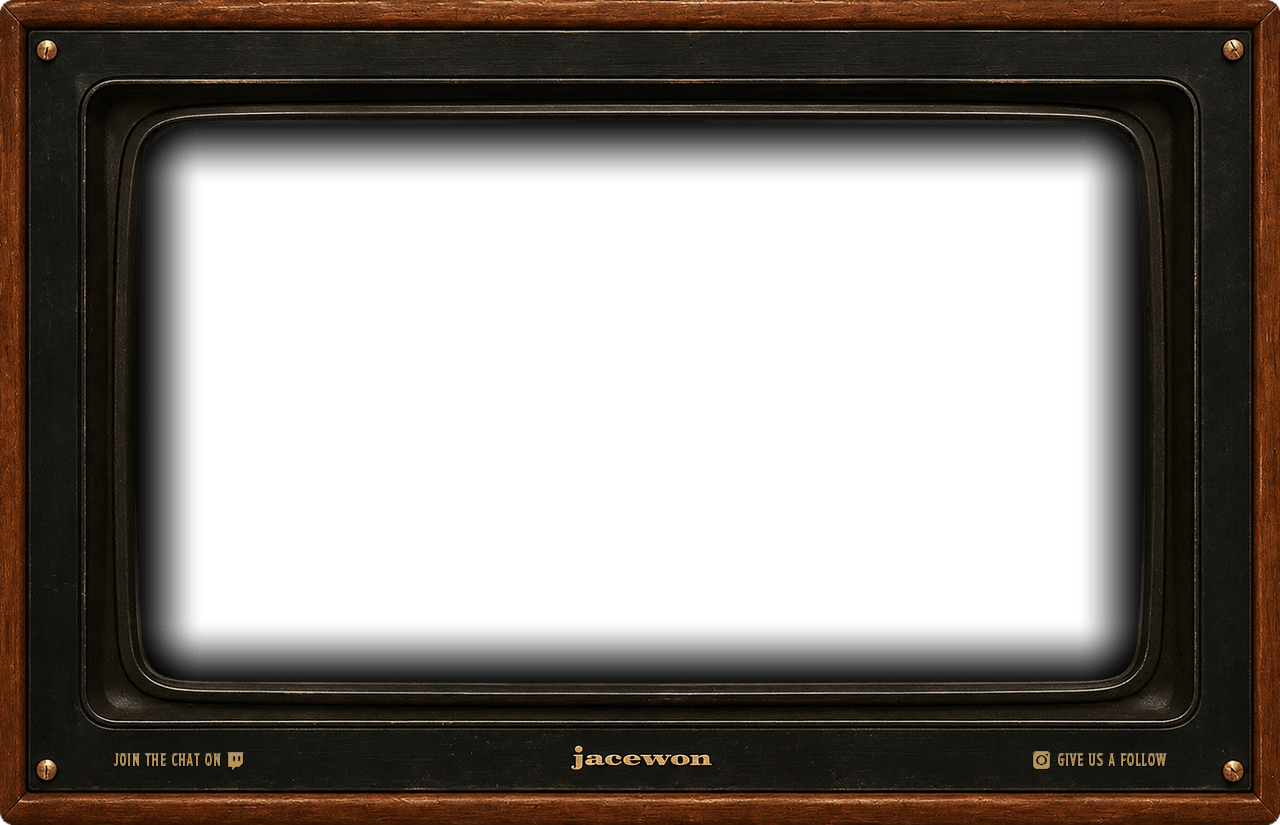
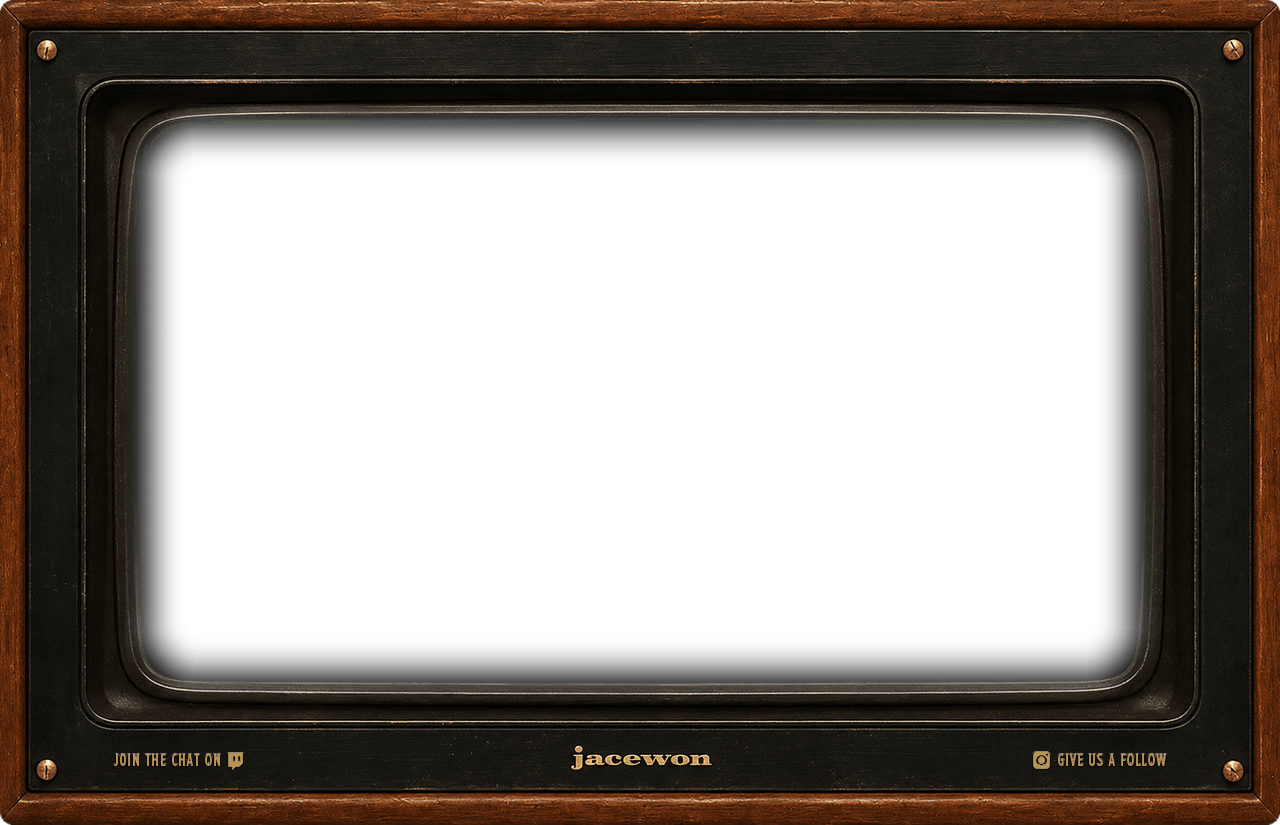
deploy: 2026-10-28 12:12

Changed region(s): [[0.0938, 0.1212, 0.9062, 0.8485]]

diff --git a/src/components/StationLiveTV.tsx b/src/components/StationLiveTV.tsx
@@ -9,7 +9,7 @@ import { SHOW_WEEKDAY, formatCountdown, msUntilNextShow } from "../utils/showSch
 // screen looked ~50px short of the bezel on every side). The true opening is where alpha
 // first reaches opaque: x 131-1148, y 113-690. The vignette then darkens the video's
 // edges on its own, like CRT glass.
-const SCREEN_WINDOW = { left: "10.234%", top: "13.697%", width: "79.531%", height: "70.061%" };
+const SCREEN_WINDOW = { left: "9.688%", top: "12.485%", width: "81.094%", height: "72.485%" };
 
 // Click zones around the two CTAs baked into the bottom row of the PNG ("JOIN THE CHAT ON ⧉"
 // left of the logo, "◻ GIVE US A FOLLOW" right of it). Text measured by gold-pixel search

diff --git a/public/live-stream/index.html b/public/live-stream/index.html
@@ -54,7 +54,7 @@ html, body {
 #scene.popout-mode #tv { position: relative !important; left: 0 !important; top: 0 !important; transform: none !important; }
 
 /* True opening of the frame (where its soft vignette reaches opaque): x131-1148, y113-690. */
-#screen { position: absolute; left: 131px; top: 113px; width: 1018px; height: 578px; background: #080605; overflow: hidden; z-index: 0; }
+#screen { position: absolute; left: 124px; top: 103px; width: 1038px; height: 598px; background: #080605; overflow: hidden; z-index: 0; }
 #embed { width: 100%; height: 100%; }
 #countdown {
   position: absolute; inset: 0; background: #080605;
